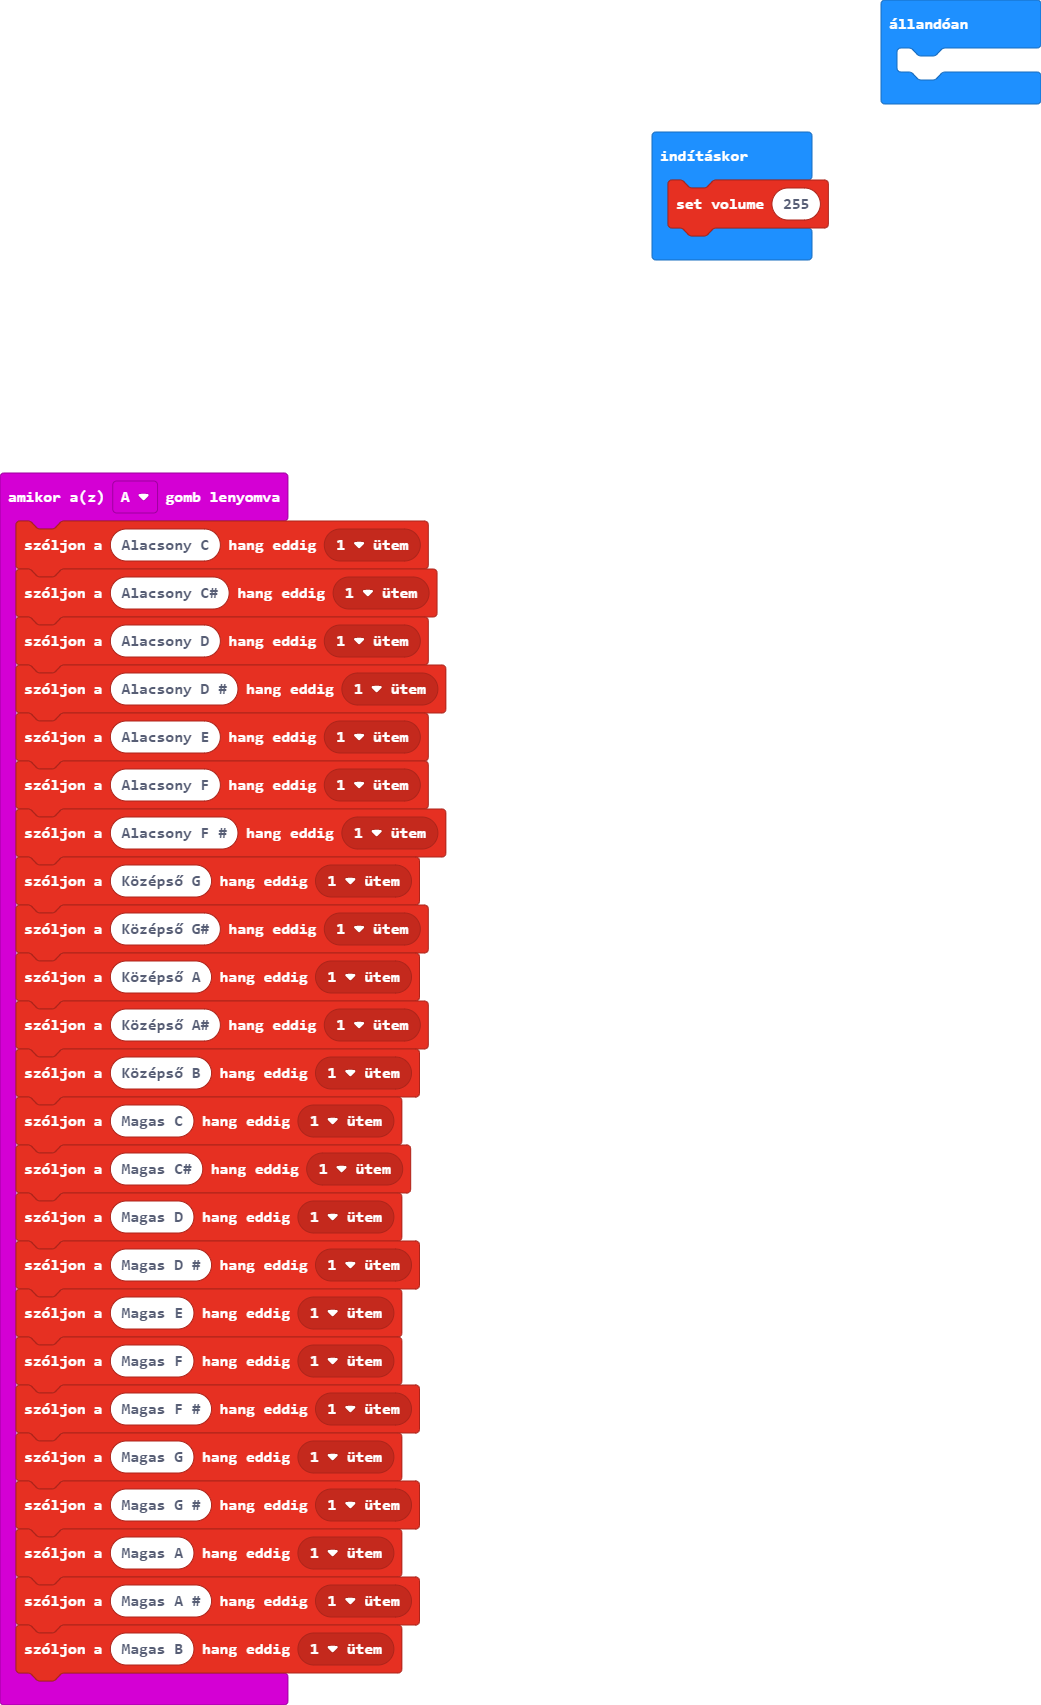
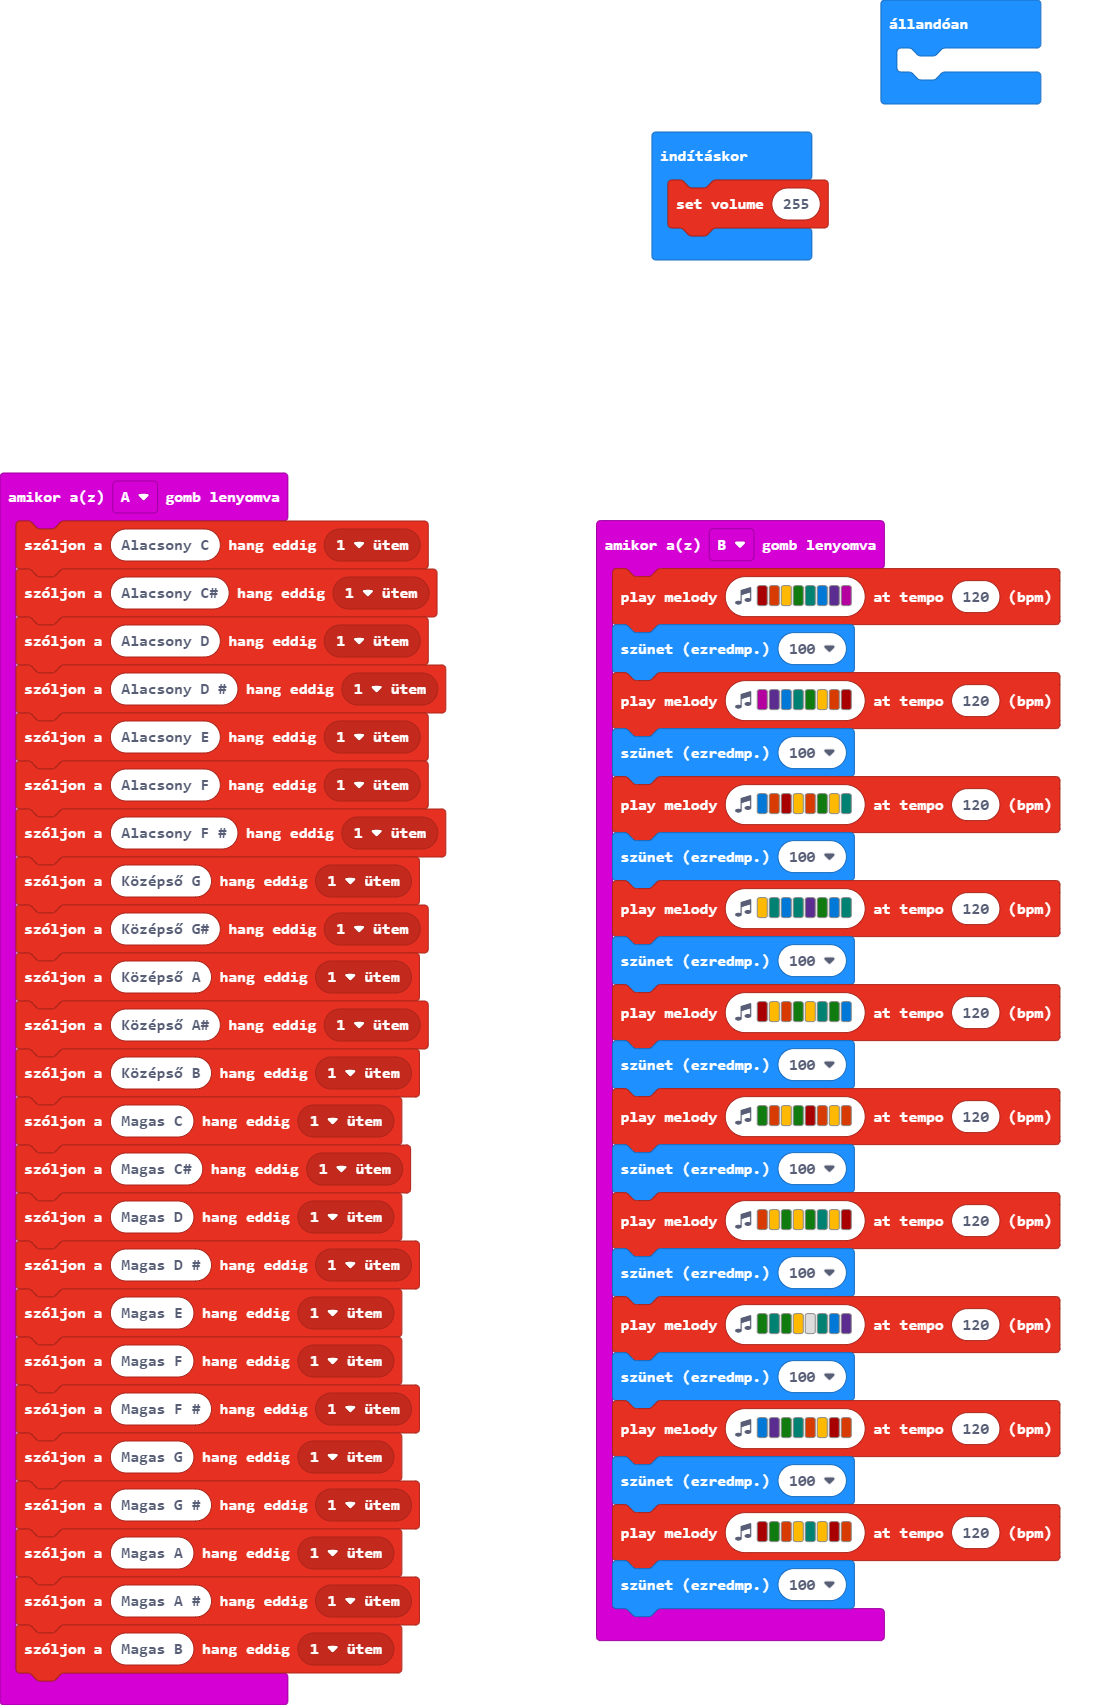
yessir added

Changed region(s): [[0.0, 0.2798, 0.4304, 1.0], [0.5226, 0.2798, 0.9529, 0.9636], [0.5841, 0.0, 1.0, 0.1554]]

diff --git a/main.ts b/main.ts
@@ -24,6 +24,28 @@ input.onButtonPressed(Button.A, function () {
     music.playTone(932, music.beat(BeatFraction.Whole))
     music.playTone(988, music.beat(BeatFraction.Whole))
 })
+input.onButtonPressed(Button.B, function () {
+    music.playMelody("C5 B A G F E D C ", 120)
+    basic.pause(100)
+    music.playMelody("C D E F G A B C5 ", 120)
+    basic.pause(100)
+    music.playMelody("E B C5 A B G A F ", 120)
+    basic.pause(100)
+    music.playMelody("A F E F D G E F ", 120)
+    basic.pause(100)
+    music.playMelody("C5 A B G A F G E ", 120)
+    basic.pause(100)
+    music.playMelody("G B A G C5 B A B ", 120)
+    basic.pause(100)
+    music.playMelody("B A G A G F A C5 ", 120)
+    basic.pause(100)
+    music.playMelody("G F G A - F E D ", 120)
+    basic.pause(100)
+    music.playMelody("E D G F B A C5 B ", 120)
+    basic.pause(100)
+    music.playMelody("C5 G B A F A C5 B ", 120)
+    basic.pause(100)
+})
 music.setVolume(255)
 basic.forever(function () {
 	
